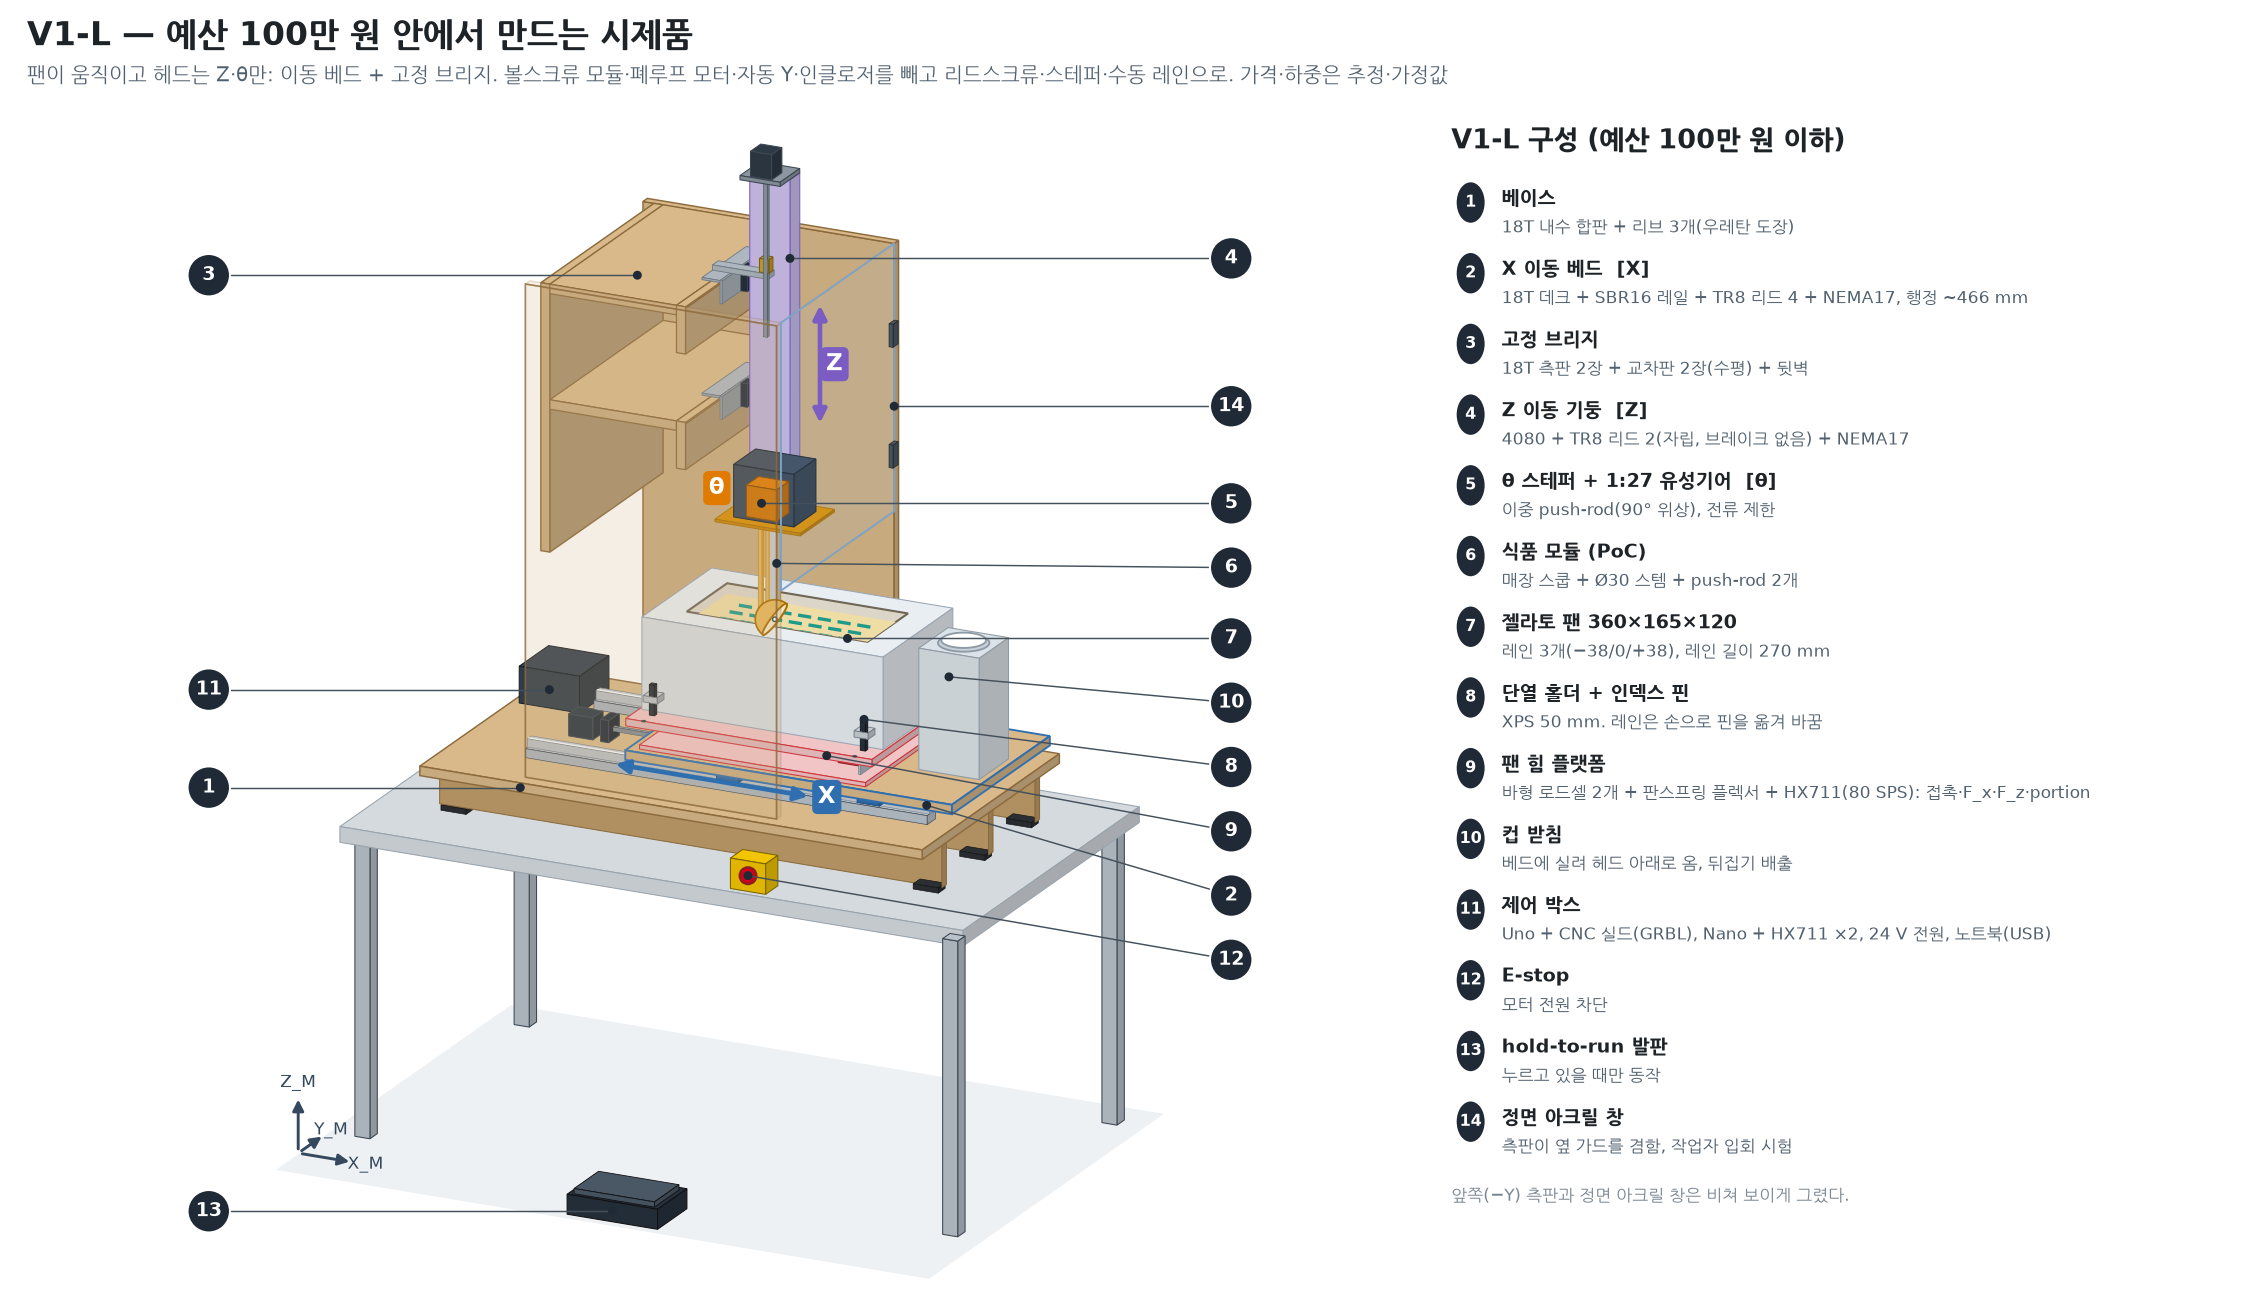
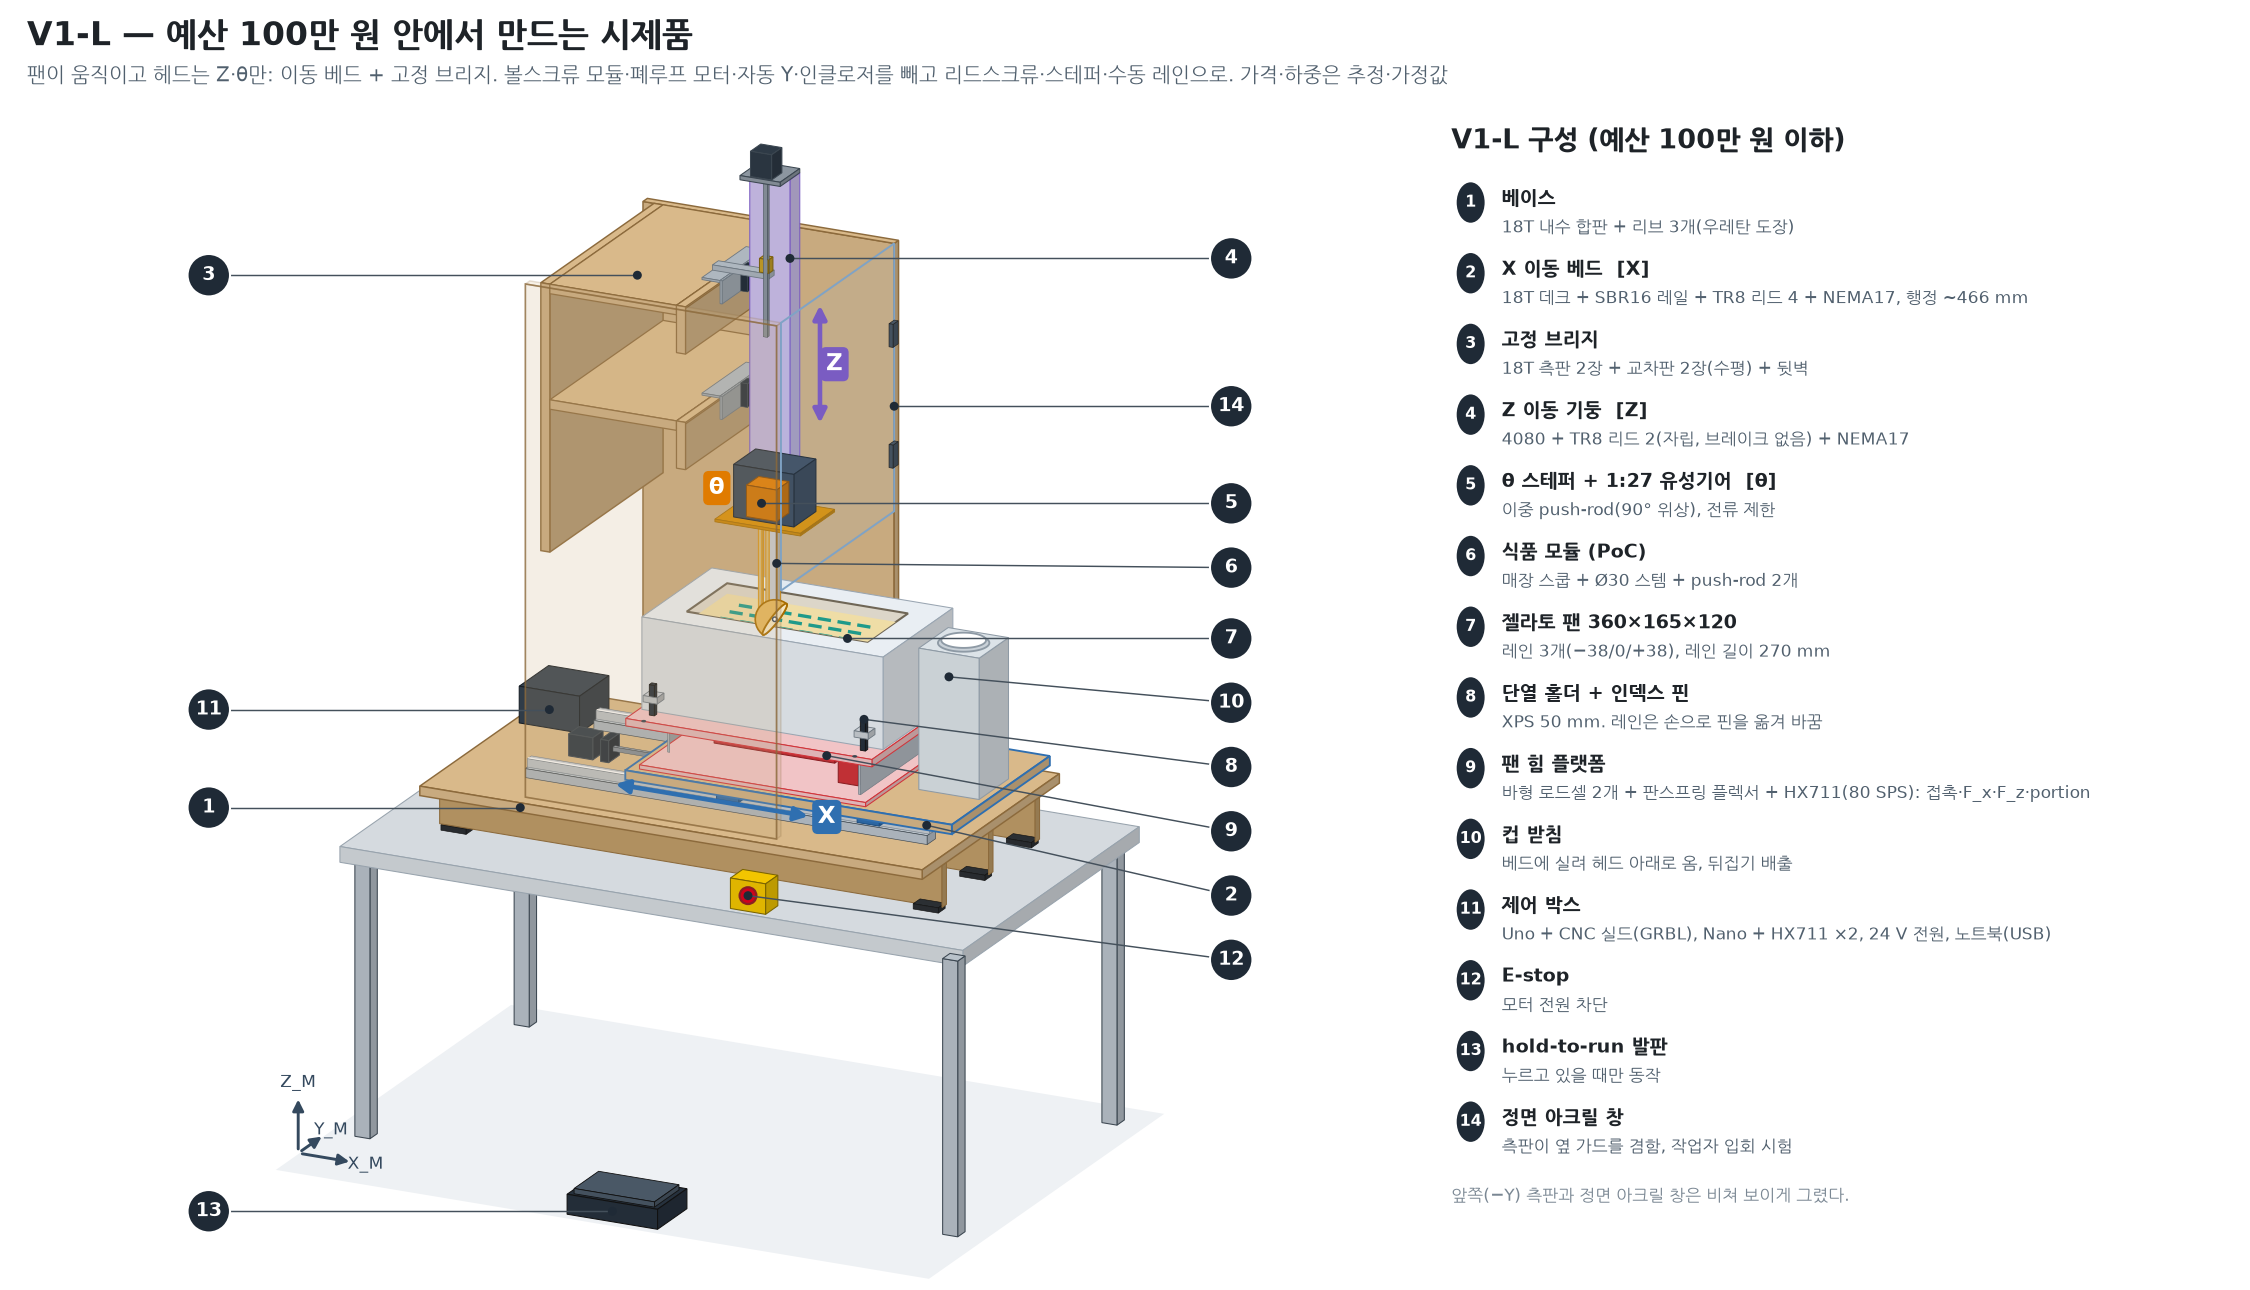
media: fig9 base height and side plates follow RT1 (rim = base + 337, plates 977)
Claude-Session: https://claude.ai/code/session_019jk2GLkKD38rJ4jT1dmpN2

Changed region(s): [[0.0622, 0.4961, 0.5289, 0.7442]]

diff --git a/media/make_figures.py b/media/make_figures.py
@@ -1045,10 +1045,10 @@ def fig_v1l(frame=None):
     BX0, BX1, BY = -500.0, 500.0, 280.0         # base 1000 x 560
     RAIL_X = (-350.0, 450.0)
     if ply:                                     # H2 (§13.2): rim 299 above the base top
-        BASE_TOP, BENCH = -299.0, -407.0        # board 18T on ribs 80 + rubber pads 10
+        BASE_TOP, BENCH = -337.0, -445.0        # board 18T on ribs 80 + rubber pads 10 (RT1: rim = base + 337)
         XB = X - 125.0                          # bridge centre: column 25 in front of the cross-plate front edge
         XF = XB + 60.0                          # cross-plate front (+X) edge
-        DECK = (-254.0, -236.0)                 # 18T deck on SBR16UU (45 above the base)
+        DECK = (-292.0, -274.0)                 # 18T deck on SBR16UU (45 above the base)
         DECK_Y = 200.0                          # 650 x 400 -> 31 mm gap to the side plates
     else:                                       # §2 sketch: tower top 955 above the base = z_u 640
         BASE_TOP, BENCH = -315.0, -380.0
@@ -1100,8 +1100,8 @@ def fig_v1l(frame=None):
         slab([(x0 + nx, z0 + nz), (x1 + nx, z1 + nz), (x1 - nx, z1 - nz), (x0 - nx, z0 - nz)], "xz", y0, y1, color, **kw)
 
     def side_plate(ys, alpha=1.0):
-        """H2: rectangular 18T side plate 500 (X) x 939 (Z) = tower + side guard."""
-        A.box(XB - 250, XB + 250, ys * TY - 9, ys * TY + 9, BASE_TOP, BASE_TOP + 939, C_PLY, ec=C_PLY_E, lw=0.7,
+        """H2: rectangular 18T side plate 500 (X) x 977 (Z) = tower + side guard."""
+        A.box(XB - 250, XB + 250, ys * TY - 9, ys * TY + 9, BASE_TOP, BASE_TOP + 977, C_PLY, ec=C_PLY_E, lw=0.7,
               alpha=alpha)
 
     def a_frame(ys):
@@ -1267,8 +1267,8 @@ def fig_v1l(frame=None):
     if ply:
         side_plate(-1, alpha=0.2)
         A.draw(ax, A.flush(), 6.6)
-        q = A.pts([(XB - 250, -TY - 9, BASE_TOP), (XB + 250, -TY - 9, BASE_TOP), (XB + 250, -TY - 9, BASE_TOP + 939),
-                   (XB - 250, -TY - 9, BASE_TOP + 939)])
+        q = A.pts([(XB - 250, -TY - 9, BASE_TOP), (XB + 250, -TY - 9, BASE_TOP), (XB + 250, -TY - 9, BASE_TOP + 977),
+                   (XB - 250, -TY - 9, BASE_TOP + 977)])
         ax.add_patch(Polygon(q, closed=True, fc="none", ec=C_PLY_E, lw=0.8, alpha=0.75, zorder=6.7))  # see-through outline
         win = A.pts([(XB + 250, -TY + 9, 130), (XB + 250, TY - 9, 130), (XB + 250, TY - 9, Z_U), (XB + 250, -TY + 9, Z_U)])
         ax.add_patch(Polygon(win, closed=True, fc="#9CC0E6", ec="#7FA3C6", lw=0.9, alpha=0.1, zorder=8))
